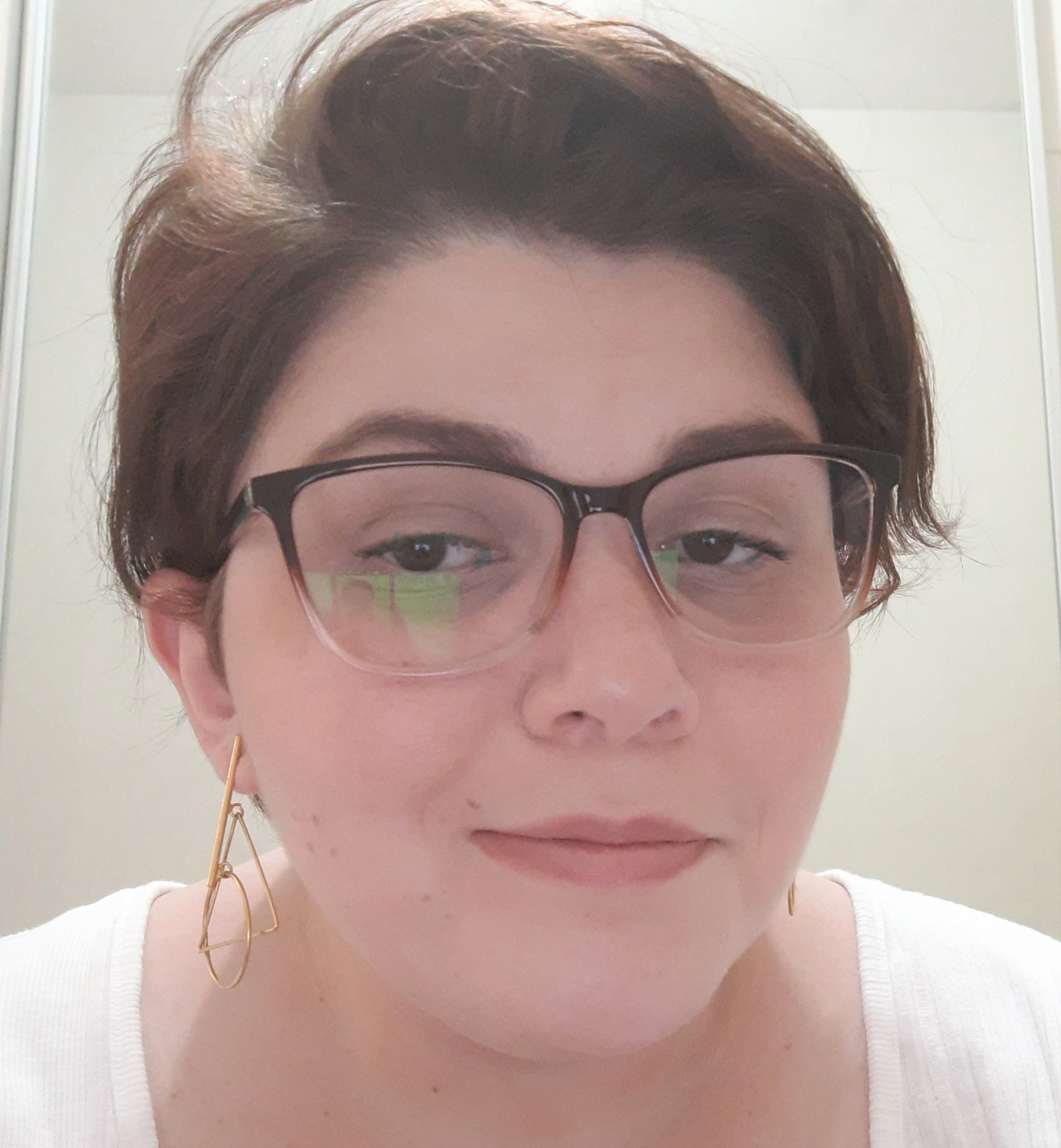
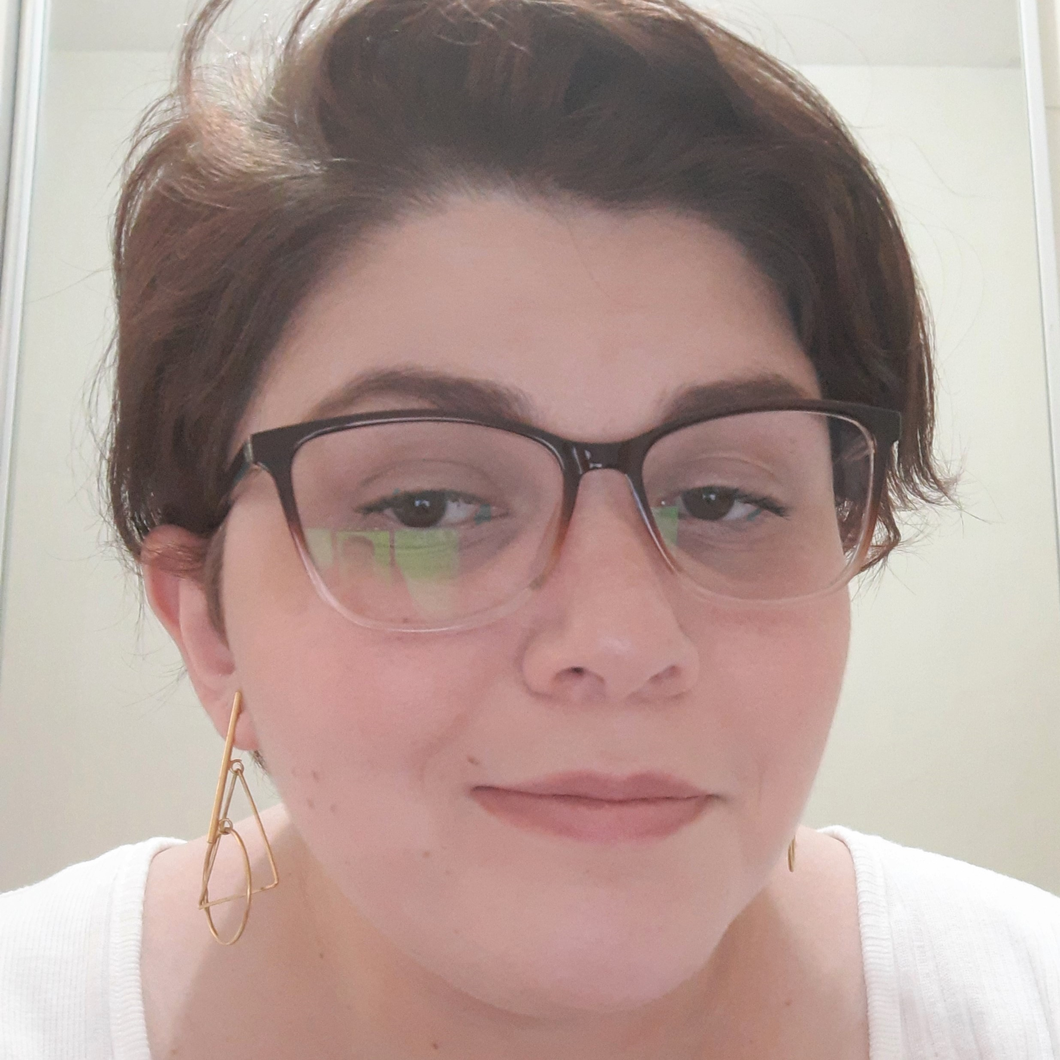
class 2 update

diff --git a/instagram clone/index.html b/instagram clone/index.html
@@ -16,10 +16,25 @@
             <div class="group">
                 <img src="img/instagram-logo.png" class="instalogo" alt="instagram logo">
                 <div class="profile-photo">
-                    <img src="img/IMG_20201001_143200558_MP.jpg" alt="">
+                    <img src="img/profille-instagram.png" alt="">
                 </div>
                 <a href="#" class="instgram-login">Continue como lari382</a>
-                <a href="#" class="instagram-logout">remover conta</a>
+                <a href="#" class="instagram-logout">Remover conta</a>
+            </div>
+            <div class="group">
+                <p class="not-account">Não é lari382?</p>
+                <p class="notaccount">
+                    <spam class="link-blue">Alternar contas</spam>
+                    ou 
+                    <spam class="link-blue">Inscreva-se</spam>
+                </p>
+            </div>
+            <div class="get-the-app">
+                <p class="getapp">Baixe o App</p>
+                <div class="download">
+                    <a href="#" class="app-download"></a>
+                    <a href="#" class="app-download"></a>
+                </div>
             </div>
         </div>
     </div>

diff --git a/instagram clone/style/style.css b/instagram clone/style/style.css
@@ -1,0 +1,33 @@
+*{
+    padding: 0;
+    margin: 0;
+    box-sizing: border-box;
+    text-decoration: none;
+    font-family: sans-serif;
+    font-size: 14px;
+}
+body{
+    width: 100%;
+    min-width: 100vh;
+    background-color: rgb(243, 243,243);
+    margin: 0;
+    padding: 0;
+    display: flex;
+    justify-content: center;
+}
+.instagram-wraper{
+    display: flex;
+    align-items: center;
+    justify-content: start;
+    width: 60%;
+    height: 100vh;
+}
+.instagram-phone{
+    display: flex;
+    align-items: center;
+    justify-content: center;
+    width: 50%;
+}
+.instagram-phone img{
+    height: 50hem;
+}
